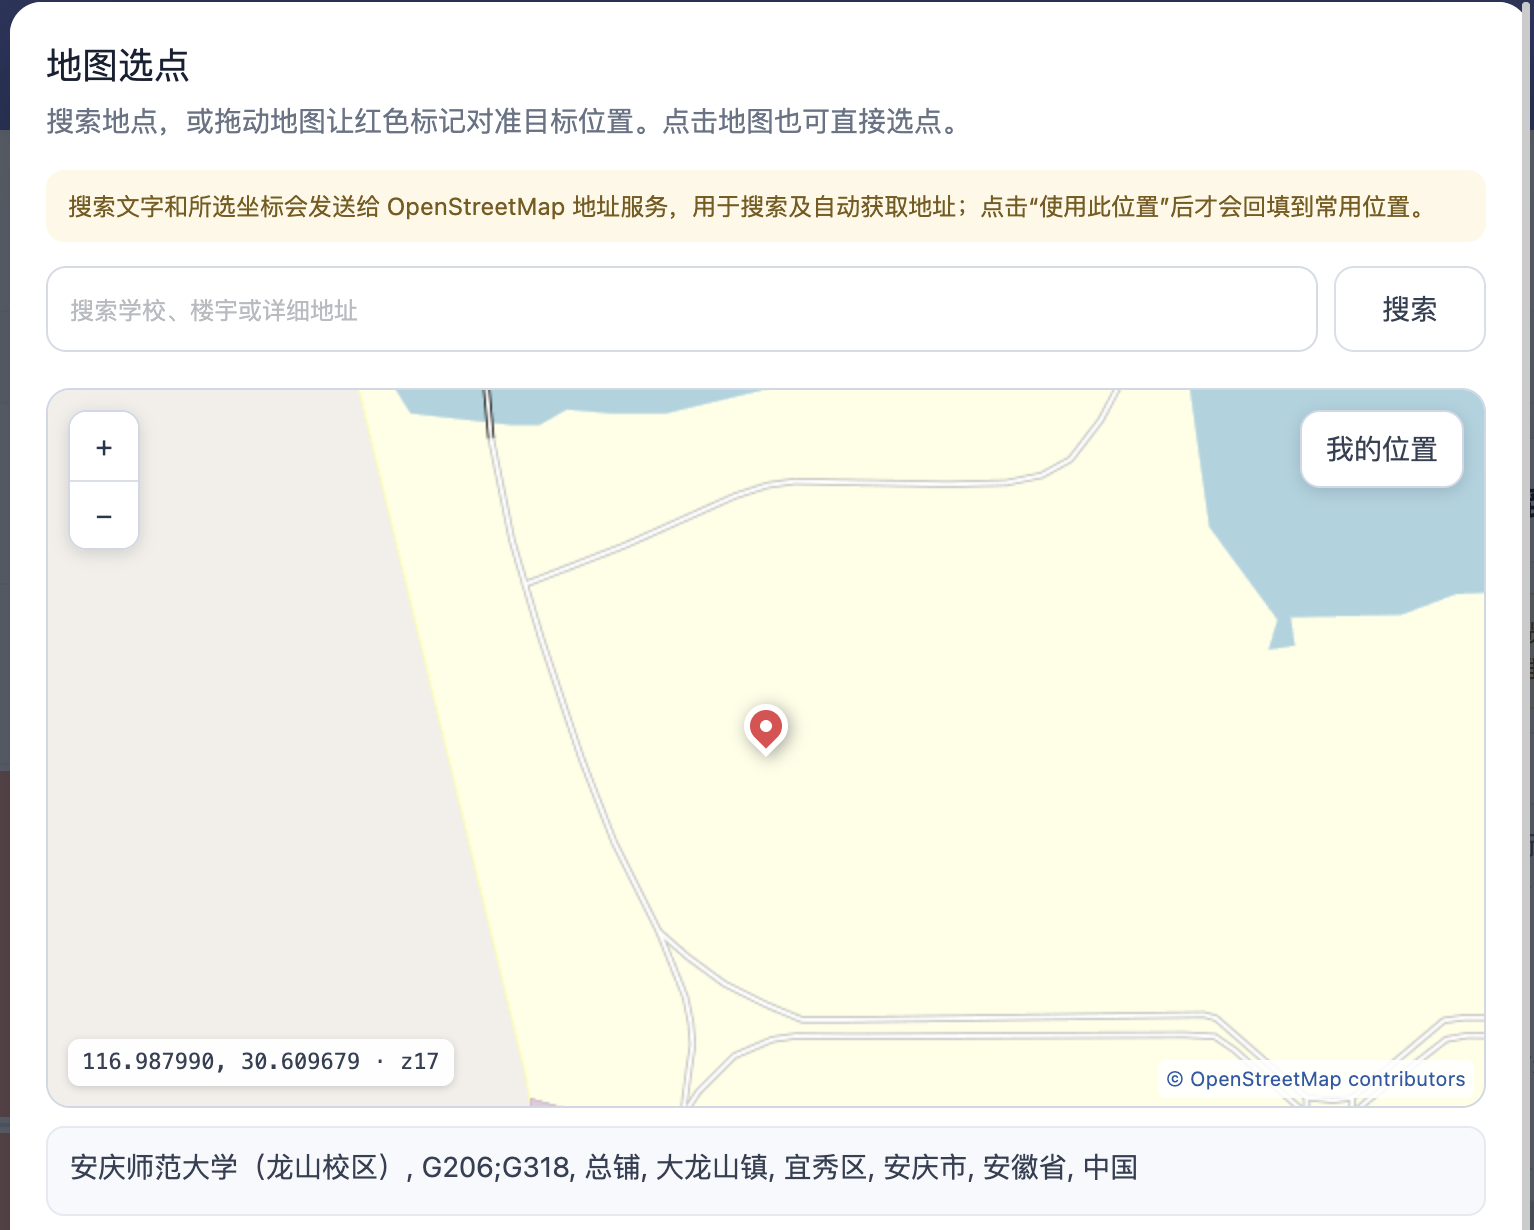
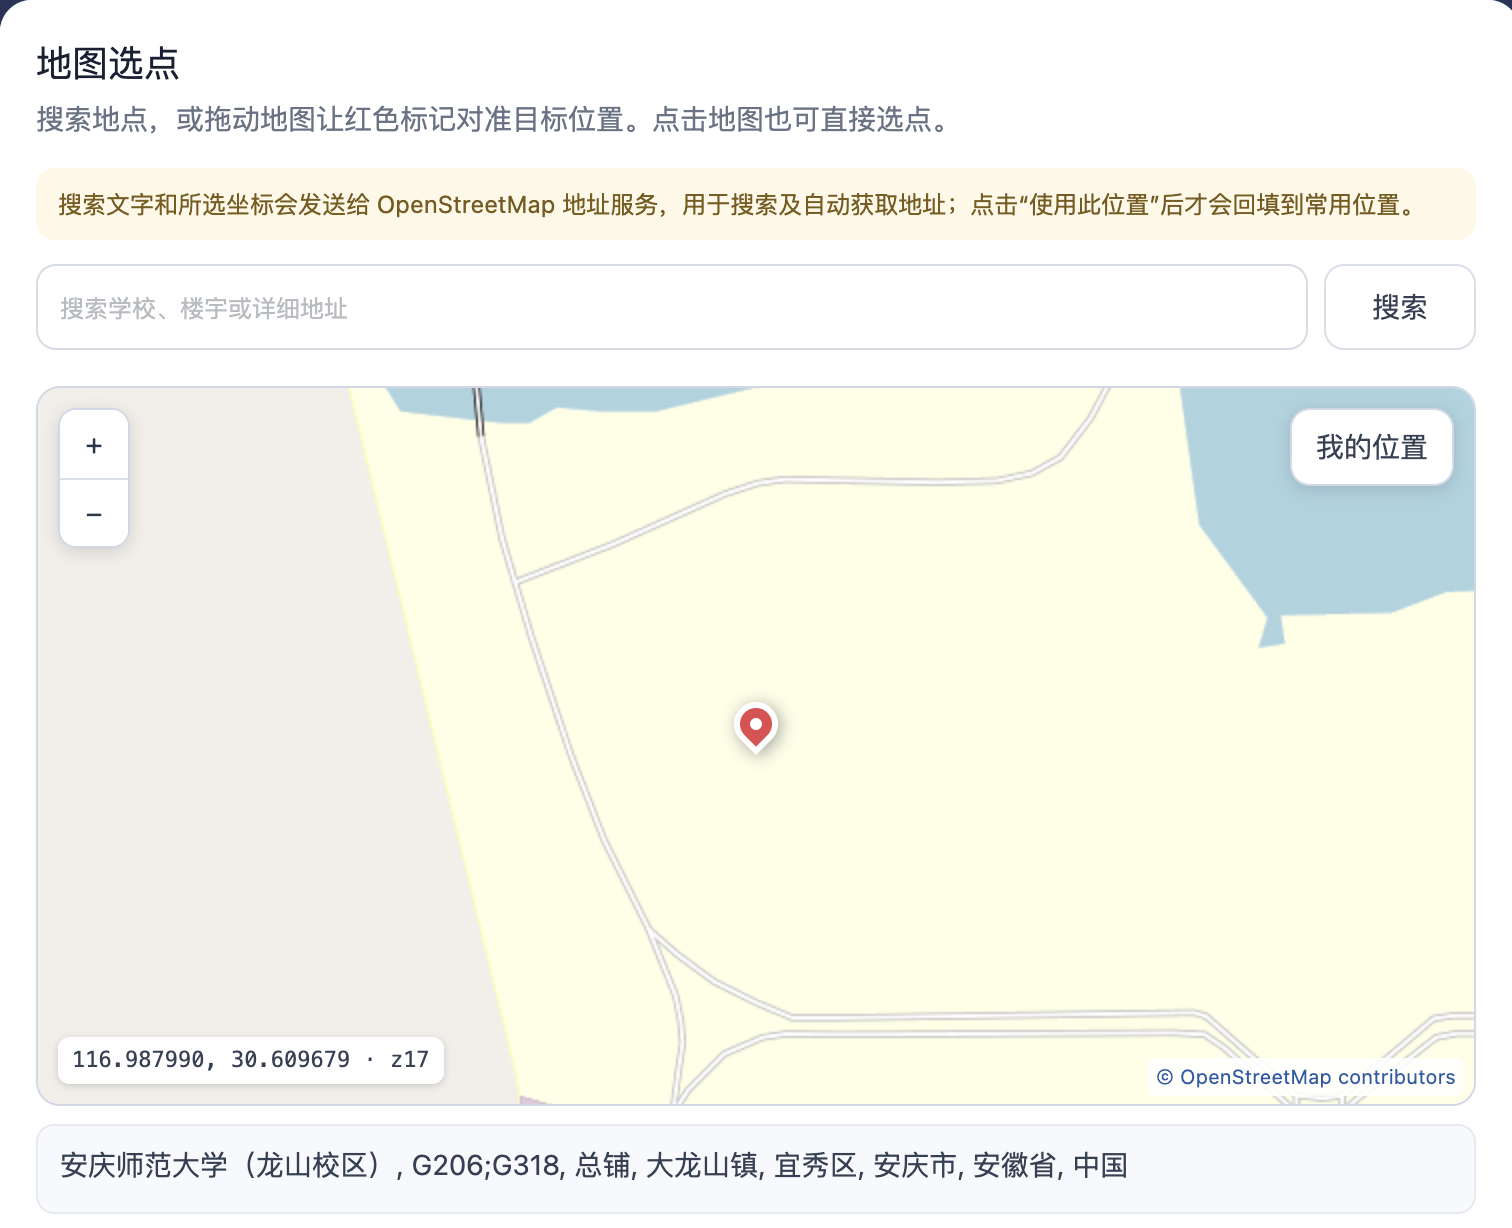
Normalize README screenshots

diff --git a/README.md b/README.md
@@ -28,7 +28,7 @@
 不用每天手动输入时间。脚本读取超星首页课表后，可以选择需要关注的课程，并分别设置提前时间、延后时间和检测间隔。默认会在每次上课开始和下课结束的前后各 10 分钟内检测。
 
 <p align="center">
-  <img src="docs/images/timetable-monitor.png" width="560" alt="按课表选择课程并设置检测时间">
+  <img src="docs/images/timetable-monitor.png" width="720" alt="按课表选择课程并设置检测时间">
 </p>
 
 只有带有效课程 ID 和班级 ID、已绑定超星网络课程的项目可以选择。保持任意超星页面打开即可运行；电脑休眠、浏览器关闭或后台标签页被限速时，检测可能暂停或延迟。
@@ -38,7 +38,7 @@
 可以搜索学校、楼宇或详细地址，也可以拖动地图、点击选点或使用浏览器当前位置。选定坐标后，脚本会通过 OpenStreetMap 地址服务获取对应的文字地址。
 
 <p align="center">
-  <img src="docs/images/map-picker.png" width="760" alt="地图搜索、选点和自动获取地址">
+  <img src="docs/images/map-picker.png" width="720" alt="地图搜索、选点和自动获取地址">
 </p>
 
 ### 保存常用位置
@@ -46,7 +46,7 @@
 常用地点可以保存位置名称、经纬度和显示地址，数据只存放在当前浏览器的 Violentmonkey 或 Tampermonkey 中。地图预设用于查看和核对地点，位置签到仍由超星官方页面完成定位授权。
 
 <p align="center">
-  <img src="docs/images/saved-location.png" width="480" alt="保存常用位置名称、坐标和地址">
+  <img src="docs/images/saved-location.png" width="720" alt="保存常用位置名称、坐标和地址">
 </p>
 
 ## 安装方法
